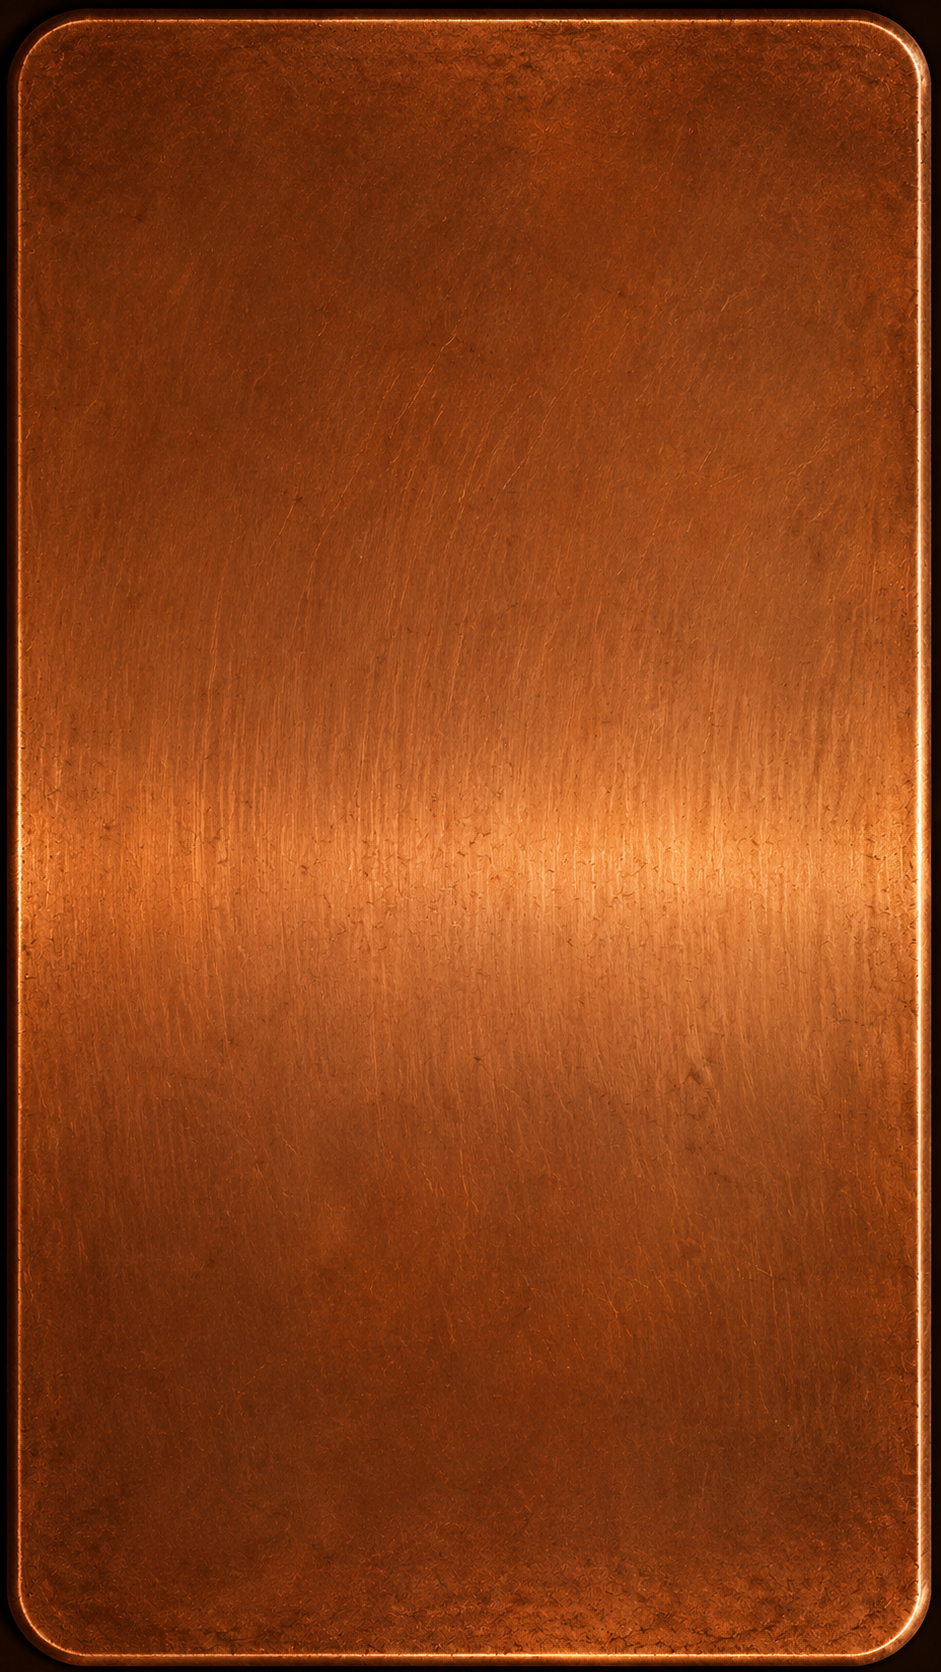
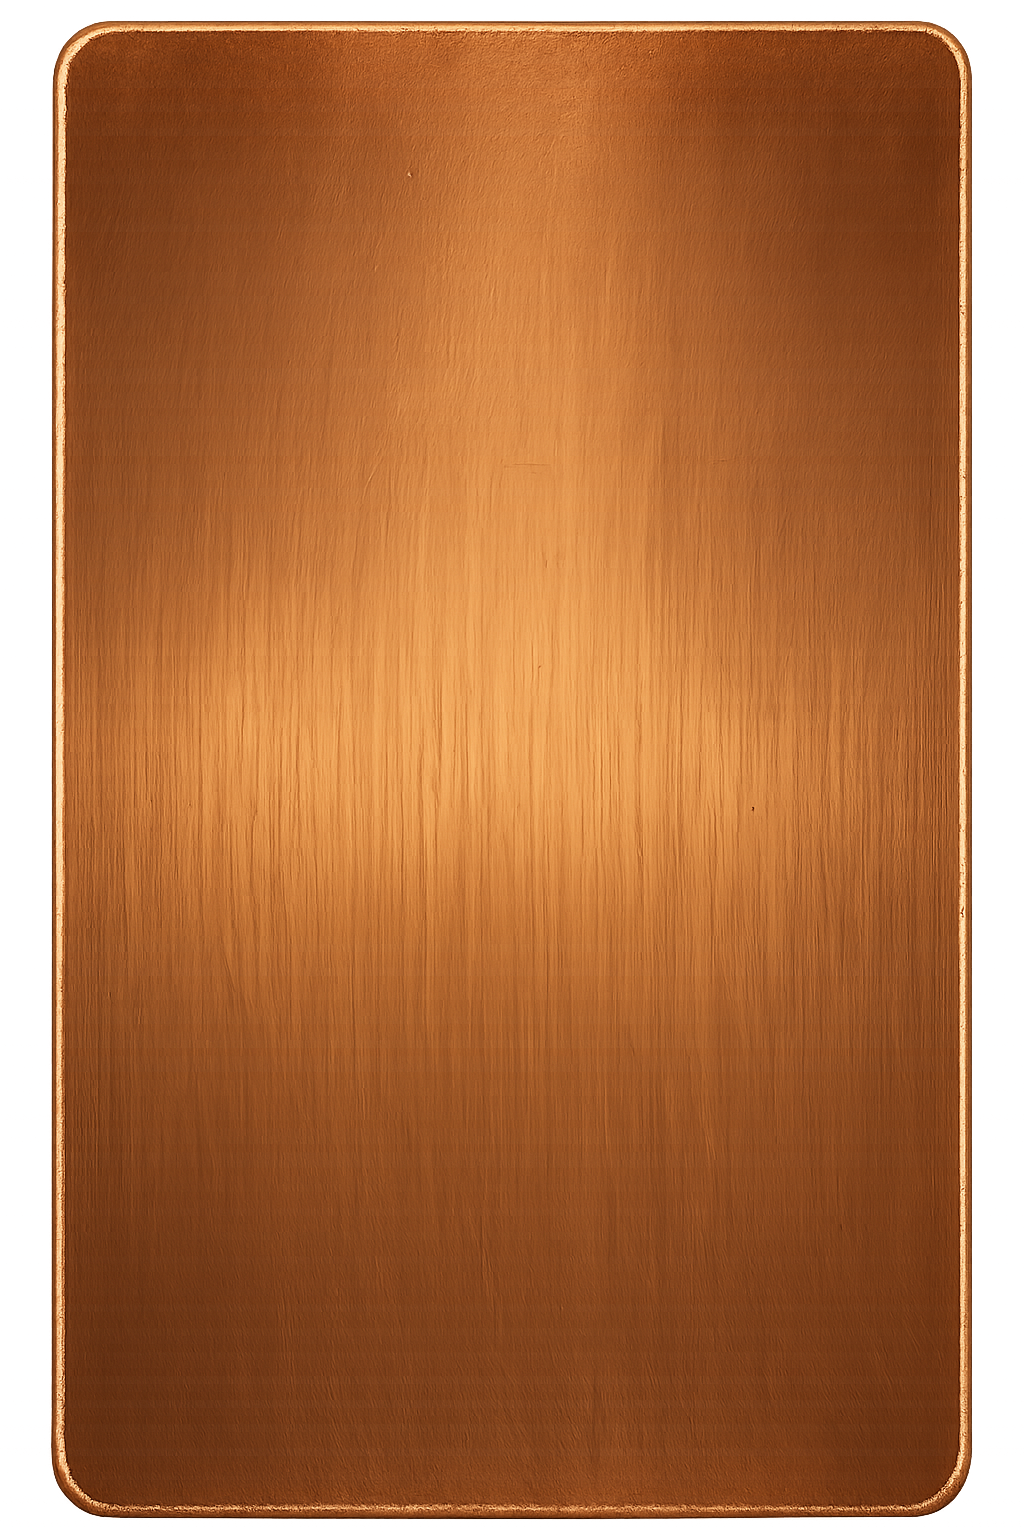
update on jun3

diff --git a/frontend/src/pages/admin/TtoMT357WhitePlayer.jsx b/frontend/src/pages/admin/TtoMT357WhitePlayer.jsx
@@ -22,7 +22,7 @@ const parseTime = (t) => {
     return 0;
 };
 
-const TtoMT357Player = () => {
+const TtoMT357WhitePlayer = () => {
     const [activeTrack, setActiveTrack] = useState('PROVERBS 1');
     const [selectedDay, setSelectedDay] = useState(3);
     const [facet, setFacet] = useState(2);
@@ -405,10 +405,7 @@ const TtoMT357Player = () => {
     };
 
     const getBookTooltip = (code) => {
-        let matchedBook;
-        if (code === 'PRO') matchedBook = booksDB.find(b => b.short_form === 'PRO');
-        else if (code === 'PSA') matchedBook = booksDB.find(b => b.short_form === 'PSA');
-        else matchedBook = booksDB.find(b => isBookMatch(code, b));
+        let matchedBook = booksDB.find(b => isBookMatch(code, b));
 
         if (!matchedBook) return '';
         const chaps = chaptersDB.filter(c => c.book_id === matchedBook.id);
@@ -875,7 +872,7 @@ const TtoMT357Player = () => {
                 <div className={`w-full relative transition-transform duration-700 [transform-style:preserve-3d] ${isFlipped ? '[transform:rotateY(180deg)]' : '[transform:rotateY(0deg)]'}`}>
                     
                     {/* Front Side */}
-                    <div className={`w-full [backface-visibility:hidden] bg-[url('/357playerBG.png')] bg-[length:100%_100%] bg-no-repeat border-[3px] border-[#9a7638] rounded-[24px] shadow-[0_20px_40px_rgba(0,0,0,0.5),inset_0_2px_10px_rgba(255,255,255,0.7),inset_0_-2px_10px_rgba(0,0,0,0.3)] flex flex-col relative overflow-hidden ring-4 ring-[#e5cf9f] ring-opacity-50 ${isFlipped ? 'pointer-events-none' : ''}`}>
+                    <div className={`w-full [backface-visibility:hidden] bg-[url('/whiteleatherbg.png')] bg-[length:100%_100%] bg-no-repeat border-[3px] border-[#9a7638] rounded-[24px] shadow-[0_20px_40px_rgba(0,0,0,0.5),inset_0_2px_10px_rgba(255,255,255,0.7),inset_0_-2px_10px_rgba(0,0,0,0.3)] flex flex-col relative overflow-hidden ring-4 ring-[#e5cf9f] ring-opacity-50 ${isFlipped ? 'pointer-events-none' : ''}`}>
 
 
 
@@ -1102,7 +1099,7 @@ const TtoMT357Player = () => {
                 {/* Combined Bible Books */}
                 <div className="mx-[16px] mb-[10px] relative">
                     <Tooltip target=".book-tooltip" position="top" className="custom-book-tooltip" showDelay={0} hideDelay={0} />
-                    <div className="overflow-hidden shadow-[0_8px_16px_rgba(0,0,0,0.8)] bg-[url('/bookbg.png')] bg-[length:100%_205%] bg-center bg-no-repeat relative">
+                    <div className="rounded-[10px] overflow-hidden shadow-[0_8px_16px_rgba(0,0,0,0.8)] bg-[url('/bookbg.png')] bg-[length:105%_205%] bg-center bg-no-repeat relative">
 
                         <div className="w-full relative z-10 flex flex-col gap-[2px] pt-[12px] pb-[4px]">
 
@@ -1446,7 +1443,7 @@ const TtoMT357Player = () => {
             </div>
 
             {/* Back Side */}
-            <div className={`absolute inset-0 w-full h-full [backface-visibility:hidden] [transform:rotateY(180deg)] bg-[url('/357playerBG.png')] bg-[length:100%_100%] bg-no-repeat border-[3px] border-[#9a7638] rounded-[24px] shadow-[0_20px_40px_rgba(0,0,0,0.5),inset_0_2px_10px_rgba(255,255,255,0.7),inset_0_-2px_10px_rgba(0,0,0,0.3)] flex flex-col overflow-hidden ring-4 ring-[#e5cf9f] ring-opacity-50 p-[20px] ${!isFlipped ? 'pointer-events-none' : ''}`}>
+            <div className={`absolute inset-0 w-full h-full [backface-visibility:hidden] [transform:rotateY(180deg)] bg-[url('/whiteleatherbg.png')] bg-[length:100%_100%] bg-no-repeat border-[3px] border-[#9a7638] rounded-[24px] shadow-[0_20px_40px_rgba(0,0,0,0.5),inset_0_2px_10px_rgba(255,255,255,0.7),inset_0_-2px_10px_rgba(0,0,0,0.3)] flex flex-col overflow-hidden ring-4 ring-[#e5cf9f] ring-opacity-50 p-[20px] ${!isFlipped ? 'pointer-events-none' : ''}`}>
                 
                 {/* Header / Back Button */}
                 <div className="flex justify-between items-center mb-[20px] pb-[10px] border-b border-[#5a3618]">
@@ -1535,7 +1532,7 @@ const TtoMT357Player = () => {
                         </div>
 
                         <div className="flex justify-end pt-[10px] mt-[5px]">
-                            <button 
+                            <button
                                 onClick={() => {
                                     setActiveThemeColor(themeColor);
                                     setShowSettings(false);
@@ -1552,4 +1549,4 @@ const TtoMT357Player = () => {
     );
 };
 
-export default TtoMT357Player;
+export default TtoMT357WhitePlayer;

diff --git a/frontend/src/components/layout/AdminSidebar.jsx b/frontend/src/components/layout/AdminSidebar.jsx
@@ -192,6 +192,7 @@ const AdminSidebar = ({ visible, onHide }) => {
                 ...(userRole === 'super_admin' || userRole === 'admin' || userRole === 'leader' ? [{ label: '7 TNT Players', icon: 'pi pi-play', to: '/admin/7tnt-players' }] : []),
                 ...(userRole === 'super_admin' || userRole === 'admin' || userRole === 'leader' ? [{ label: 'Players', icon: 'pi pi-play', to: '/admin/players' }] : []),
                 ...(userRole === 'super_admin' || userRole === 'admin' || userRole === 'leader' ? [{ label: 'TtoMT 357 Player', icon: 'pi pi-play', to: '/admin/ttomt-357-player' }] : []),
+                ...(userRole === 'super_admin' || userRole === 'admin' || userRole === 'leader' ? [{ label: 'T-Tom-T 357 White Player', icon: 'pi pi-play', to: '/admin/ttomt-357-white-player' }] : []),
                 ...(userRole === 'super_admin' || userRole === 'admin' ? [{ label: 'Recordings', icon: 'pi pi-microphone', to: '/admin/recordings' }] : []),
                 ...(userRole === 'super_admin' || userRole === 'admin' ? [{ label: 'Screen Recorder', icon: 'pi pi-desktop', to: '/admin/screen-recorder' }] : [])
             ]

diff --git a/frontend/src/routes.jsx b/frontend/src/routes.jsx
@@ -45,6 +45,7 @@ import SevenTNTPlayer from './pages/admin/SevenTNTPlayer';
 import SevenTNTContentManagement from './pages/admin/SevenTNTContentManagement';
 import TTomTPlayer from './pages/admin/TTomTPlayer';
 import TtoMT357Player from './pages/admin/TtoMT357Player';
+import TtoMT357WhitePlayer from './pages/admin/TtoMT357WhitePlayer';
 import Players from './pages/admin/Players';
 import DashboardAdmin from './pages/admin/DashboardAdmin';
 import DashboardLeader from './pages/admin/DashboardLeader';
@@ -200,6 +201,7 @@ const AppRoutes = () => {
                     <Route path="/admin/players" element={<Players />} />
                     <Route path="/admin/7tnt-players" element={<SevenTNTPlayers />} />
                     <Route path="/admin/ttomt-357-player" element={<TtoMT357Player />} />
+                    <Route path="/admin/ttomt-357-white-player" element={<TtoMT357WhitePlayer />} />
                 </Route>
 
                 {/* Restricted Routes (SuperAdmin, Admin only) for specific items removed from Leader */}

diff --git a/frontend/src/components/layout/AdminLayout.jsx b/frontend/src/components/layout/AdminLayout.jsx
@@ -8,7 +8,7 @@ const AdminLayout = () => {
     const location = useLocation();
 
     // Hide Topbar, Sidebar, and Footer when navigating to Book Index to allow immersive full-screen UX
-    const isFullScreenMode = location.pathname.includes('/book-index') || location.pathname.includes('/ttomt-357-player');
+    const isFullScreenMode = location.pathname.includes('/book-index') || location.pathname.includes('/ttomt-357-player') || location.pathname.includes('/ttomt-357-white-player');
 
     if (isFullScreenMode) {
         return (

diff --git a/frontend/src/components/FloatingMenu.jsx b/frontend/src/components/FloatingMenu.jsx
@@ -50,6 +50,8 @@ const screenPaths = {
     'Honeycomb Report': '/admin/reports/honeycomb-report',
     'Light Digital Chart': '/admin/light-chart-digital',
     'T-Tom-T Registered Users': '/admin/ttom-users',
+    'T-TOMT 357': '/admin/ttomt-357-player',
+    'T-TOMT 357 White Player': '/admin/ttomt-357-white-player',
     '7 TNT Players': '/admin/7tnt-players',
     'Players': '/admin/players',
     'System Settings': '/admin/settings'

diff --git a/frontend/src/pages/admin/Settings.jsx b/frontend/src/pages/admin/Settings.jsx
@@ -34,6 +34,8 @@ const Settings = () => {
         ],
         Audio: [
             { label: 'T-Tom-T Registered Users' },
+            { label: 'T-TOMT 357' },
+            { label: 'T-TOMT 357 White Player' },
             { label: '7 TNT Players' },
             { label: 'Players' },
             { label: 'Recordings' },

diff --git a/frontend/check_img.js b/frontend/check_img.js
@@ -1,0 +1,5 @@
+const fs = require('fs');
+const zlib = require('zlib');
+
+// Very basic PNG parser just to find the IDAT chunks and parse the first few non-transparent pixels.
+// Since it's too complex to write a full PNG parser, I'll just use a python script with a downloaded library if possible.
